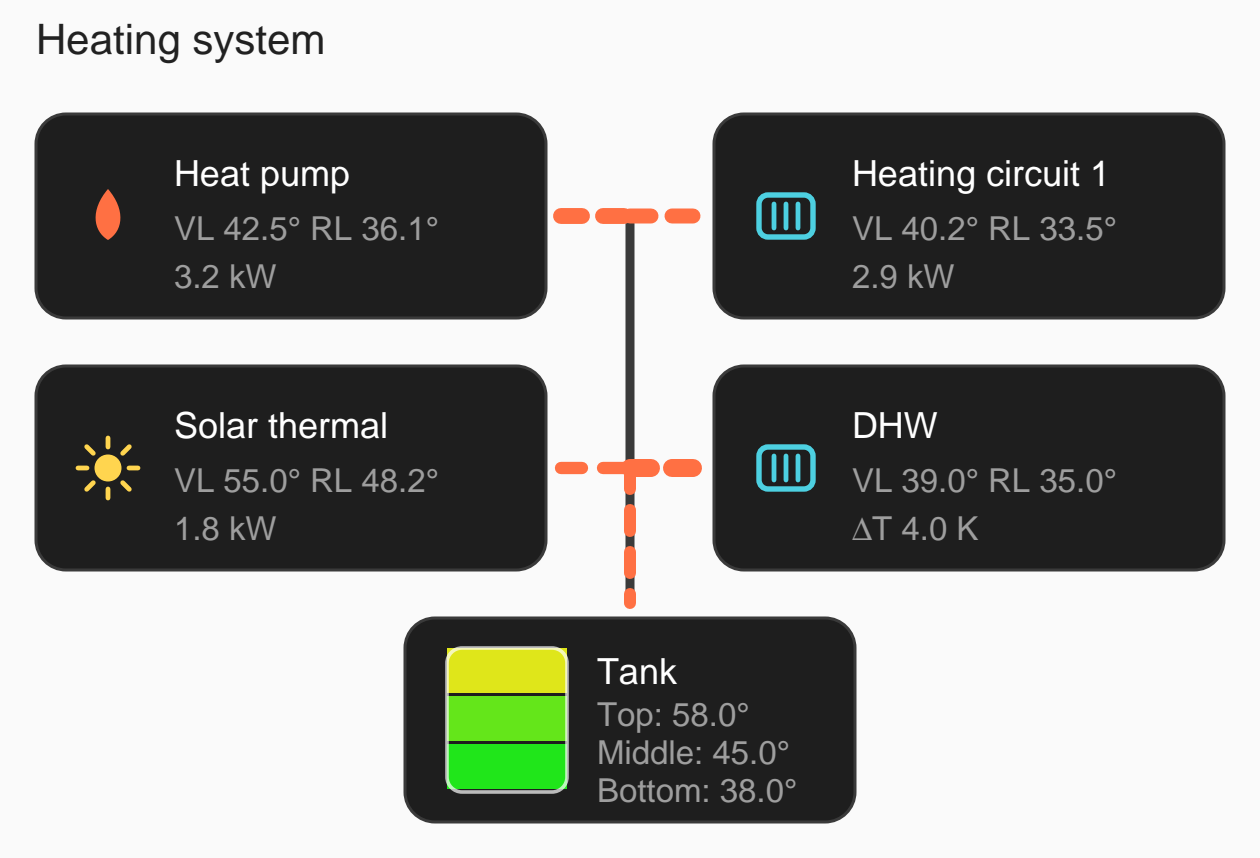
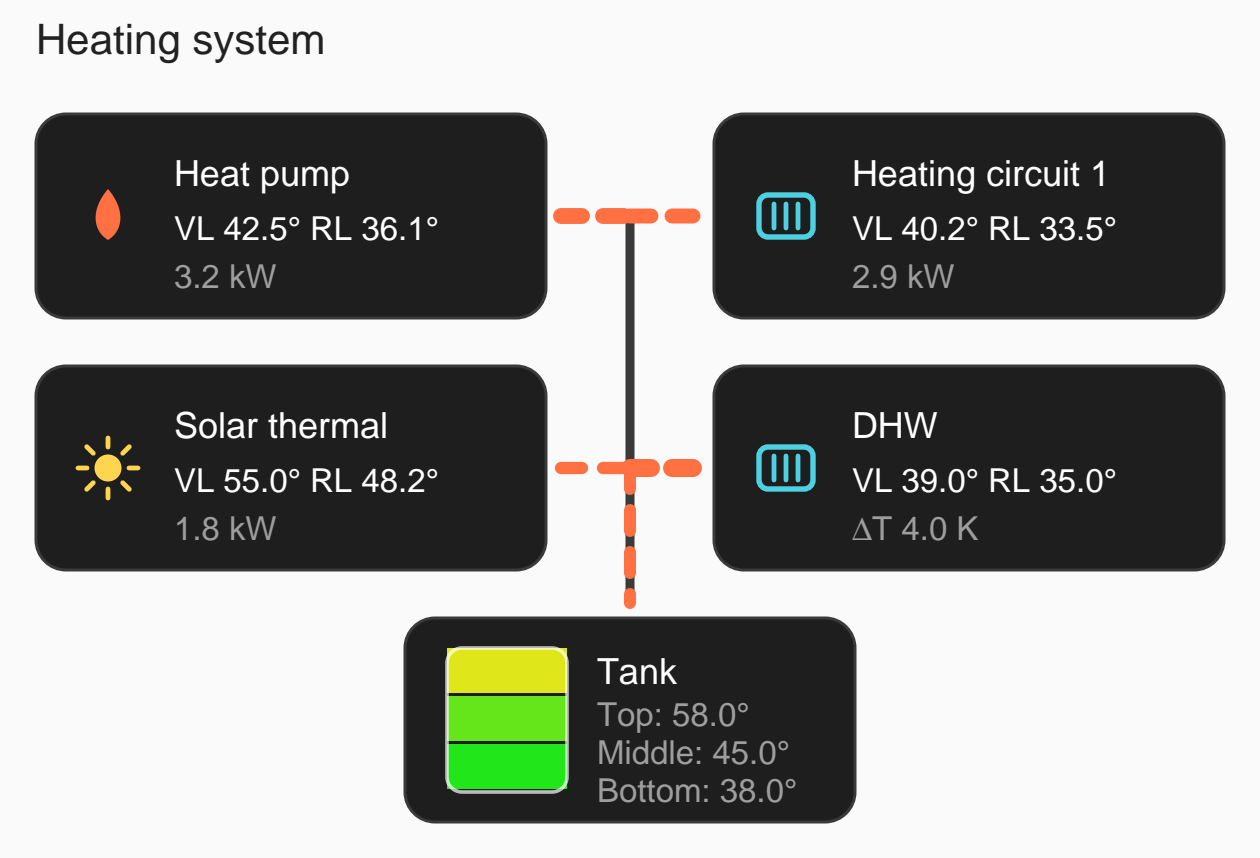
Highlight supply/return temperatures: white and bold

diff --git a/heating-flow-card.js b/heating-flow-card.js
@@ -22,6 +22,7 @@
     '.hfc-title { fill: #ffffff; font-size: 14px; font-weight: 600; }',
     '.hfc-name { fill: #ffffff; font-size: 12px; font-weight: 600; }',
     '.hfc-sub { fill: #9e9e9e; font-size: 11px; }',
+    '.hfc-temp { fill: #ffffff; font-size: 11px; font-weight: 700; }',
     '.hfc-bus { stroke: #757575; stroke-width: 3; stroke-linecap: round; }',
     '.hfc-line { fill: none; stroke-linecap: round; }',
     '.hfc-line-off { stroke: #757575; stroke-width: 2; opacity: 0.5; }',
@@ -150,7 +151,7 @@
     const color = TYPE_INFO[p.type].color;
     let lines = '';
     if (x.tf != null || x.tr != null) {
-      lines += '<text class="hfc-sub" x="' + (bx + 46) + '" y="' + (by + 42) + '">' +
+      lines += '<text class="hfc-temp" x="' + (bx + 46) + '" y="' + (by + 42) + '">' +
         (x.tf != null ? 'VL ' + x.tf.toFixed(1) + '°' : 'VL –') + '  ' +
         (x.tr != null ? 'RL ' + x.tr.toFixed(1) + '°' : 'RL –') + '</text>';
       lines += '<text class="hfc-sub" x="' + (bx + 46) + '" y="' + (by + 58) + '">' +

diff --git a/tests/card.test.js b/tests/card.test.js
@@ -121,6 +121,14 @@ test('render: no line intersects any text (lines stop at box edges)', () => {
   assert.deepEqual(findLineTextOverlaps(el.innerHTML), []);
 });
 
+test('render: temperatures are highlighted (white, bold), power stays grey', () => {
+  const el = renderCard(Card, EXAMPLE_CONFIG, EXAMPLE_STATES);
+  const tempLines = el.innerHTML.match(/<text class="hfc-temp"[^>]*>[^<]*VL[^<]*<\/text>/g) || [];
+  assert.equal(tempLines.length, 4); // 2 sources + 2 emitters have VL/RL
+  assert.match(el.innerHTML, /\.hfc-temp \{ fill: #ffffff; font-size: 11px; font-weight: 700; \}/);
+  assert.ok(el.innerHTML.includes('3.2 kW'));
+});
+
 test('render: CSS is embedded inside the SVG (shadow-DOM safe)', () => {
   const el = renderCard(Card, EXAMPLE_CONFIG, EXAMPLE_STATES);
   const svgStart = el.innerHTML.indexOf('<svg');
